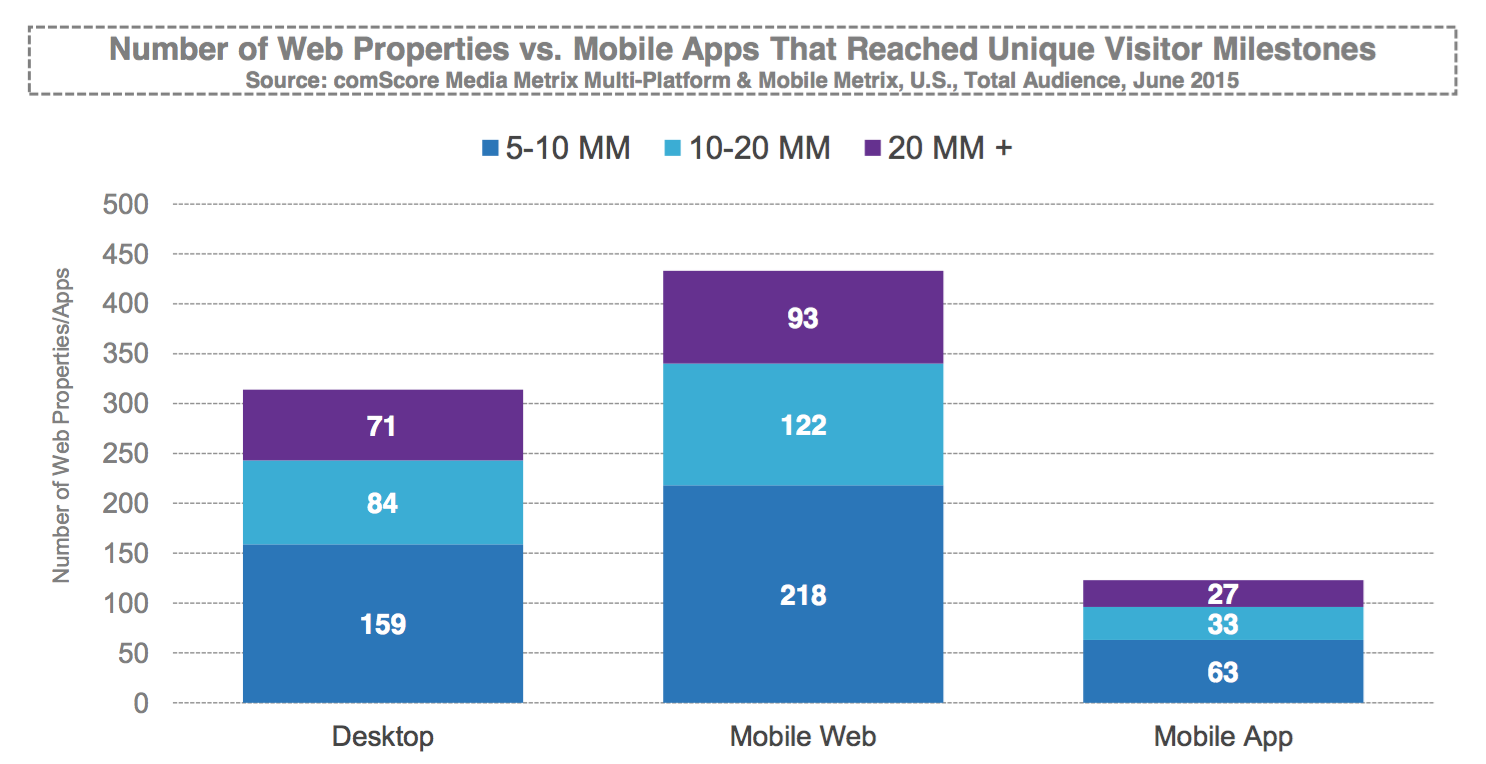
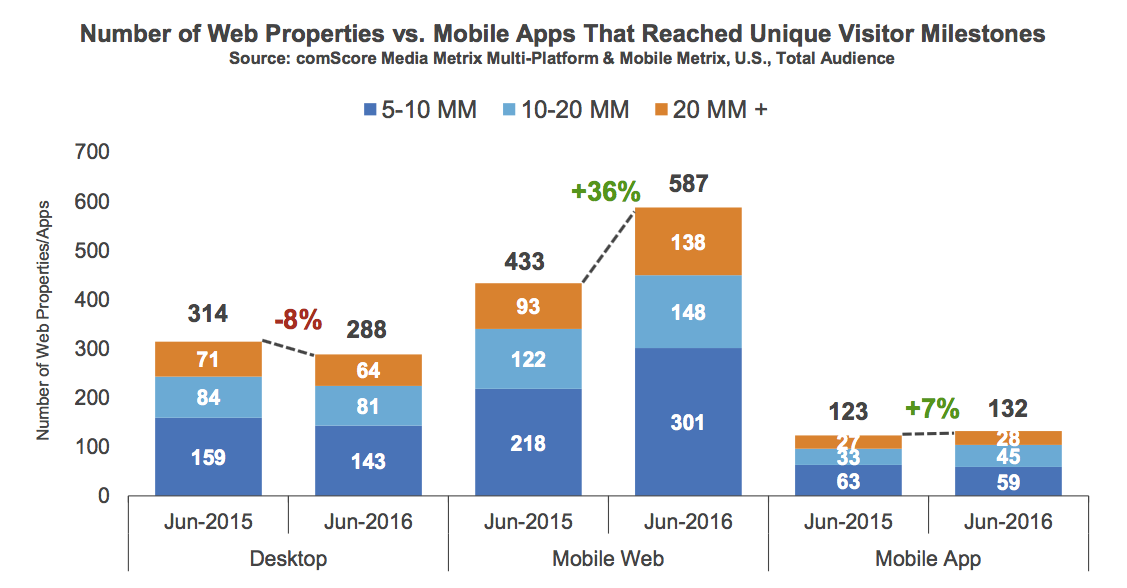
Updating charts of The Right Choice presentation

diff --git a/web-platform-when-why/index.html b/web-platform-when-why/index.html
@@ -73,7 +73,7 @@
             <h3>Interoperable</h3>
             <img alt="Grow in digital media time" src="./imgs/grow-in-digital-media-time.png"/>
             <p>
-              Source: <a href="http://www.comscore.com/layout/set/popup/Request/Presentations/2015/The-2015-US-Mobile-App-Report" target="_blank">2015 U.S. Mobile App Report</a>
+              Source: <a href="https://www.comscore.com/Insights/Presentations-and-Whitepapers/2016/The-2016-US-Mobile-App-Report" target="_blank">2016 U.S. Mobile App Report</a>
             </p>
           </section>
 
@@ -81,6 +81,13 @@
             <blockquote>
               <p>Confluence of factors is driving the huge uptick in app usage time, and apps are overtaking other media in importance. However, it’s also important to recognize the others haven’t gone away and the opportunity lies in multi-platform engagement.</p>
               <p style="text-align: right;"><a href="http://www.comscore.com/layout/set/popup/Request/Presentations/2015/The-2015-US-Mobile-App-Report" target="_blank">&mdash;2015 U.S. Mobile Report Opportunities Key Points</a></p>
+            </blockquote>
+          </section>
+
+          <section>
+            <blockquote>
+              <p>Mobile web is the primary vehicle for expanding audience reach, but apps are where heavy engagement happens. Publishers must get better at onboarding mobile web visitors to the app, and get their apps promoted to the home screen if they want to maximize usage.</p>
+              <p style="text-align: right;"><a href="https://www.comscore.com/Insights/Presentations-and-Whitepapers/2016/The-2016-US-Mobile-App-Report" target="_blank">&mdash;2016 U.S. Mobile Report Opportunities Key Points</a></p>
             </blockquote>
           </section>
 
@@ -103,7 +110,14 @@
             <h3>Discoverable</h3>
             <img alt="Unique visitors milestones" src="./imgs/unique-visitors-milestones.png"/>
             <p>
-              Source: <a href="http://www.comscore.com/layout/set/popup/Request/Presentations/2015/The-2015-US-Mobile-App-Report" target="_blank">2015 U.S. Mobile App Report</a>
+              Source: <a href="https://www.comscore.com/Insights/Presentations-and-Whitepapers/2016/The-2016-US-Mobile-App-Report" target="_blank">2016 U.S. Mobile App Report</a>
+            </p>
+          </section>
+
+          <section>
+            <img alt="Increment of the user of discovery channels" src="./imgs/discovery-channels.png"/>
+            <p>
+              Source: <a href="https://www.comscore.com/Insights/Presentations-and-Whitepapers/2016/The-2016-US-Mobile-App-Report" target="_blank">2016 U.S. Mobile App Report</a>
             </p>
           </section>
         </section>
@@ -123,22 +137,22 @@
 
           <section>
             <p>Apps run independent on connectivity</p>
-            <img alt="Application with no connectivity" src="./imgs/youtube-offline.png" style="width: 40%;"/>
-            <img alt="Dinosaur game in Chrome" src="./imgs/dinosaur-game-chrome.png" style="width: 40%;"/>
+            <img alt="Application with no connectivity" src="./imgs/youtube-offline.png" style="width: 34%;"/>
+            <img alt="Dinosaur game in Chrome" src="./imgs/dinosaur-game-chrome.png" style="width: 34%;"/>
             <p>App vs. tab</p>
           </section>
 
           <section>
             <p>Apps are first class citizens of the OS</p>
-            <img style="width: 40%;" alt="App task switcher" src="./imgs/app-task-switcher.png" />
-            <img style="width: 40%;" alt="Browser tab switcher" src="./imgs/browser-tab-switcher.png"/>
+            <img style="width: 34%;" alt="App task switcher" src="./imgs/app-task-switcher.png" />
+            <img style="width: 34%;" alt="Browser tab switcher" src="./imgs/browser-tab-switcher.png"/>
             <p>App vs. tab</p>
           </section>
 
           <section>
             <p>Apps can re-engage the user even if they are closed</p>
-            <img style="width: 40%;" alt="New e-mail notification" src="./imgs/push-notification.png" />
-            <img style="width: 40%;" alt="Highlghting new content in app" src="./imgs/in-app-highlight.png"/>
+            <img style="width: 34%;" alt="New e-mail notification" src="./imgs/push-notification.png" />
+            <img style="width: 34%;" alt="Highlghting new content in app" src="./imgs/in-app-highlight.png"/>
             <p>App vs. tab</p>
           </section>
 
@@ -153,16 +167,16 @@
             <p>
               And now?
             </p>
-            <img style="width: 40%;" alt="Twitter Native Application" src="./imgs/twitter-native.png"/>
-            <img style="width: 40%;" alt="Twitter Web Application Without Browser UI" src="./imgs/twitter-web-no-ui.png"/>
+            <img style="width: 34%;" alt="Twitter Native Application" src="./imgs/twitter-native.png"/>
+            <img style="width: 34%;" alt="Twitter Web Application Without Browser UI" src="./imgs/twitter-web-no-ui.png"/>
           </section>
 
           <section>
             <p>
               But you certainly do now.
             </p>
-            <img style="width: 40%;" alt="Twitter Native Application" src="./imgs/twitter-native.png"/>
-            <img style="width: 40%;" alt="Twitter Web Application" src="./imgs/twitter-web.png"/>
+            <img style="width: 34%;" alt="Twitter Native Application" src="./imgs/twitter-native.png"/>
+            <img style="width: 34%;" alt="Twitter Web Application" src="./imgs/twitter-web.png"/>
           </section>
 
           <section>
@@ -184,14 +198,14 @@
             <p>Different benefits for different platforms</p>
             <img alt="Audience vs loyalty" src="./imgs/audience-vs-loyalty.png"/>
             <p>
-              Source: <a href="http://www.comscore.com/layout/set/popup/Request/Presentations/2015/The-2015-US-Mobile-App-Report" target="_blank">2015 U.S. Mobile App Report</a>
+              Source: <a href="https://www.comscore.com/Insights/Presentations-and-Whitepapers/2016/The-2016-US-Mobile-App-Report" target="_blank">2016 U.S. Mobile App Report</a>
             </p>
           </section>
 
           <section>
             <blockquote>
               <p>What you hope is that the experience with your entire company is so good, and the service or value you provide is so impressive, and the benefits to your app are so clear … that casual browsers turn into mobile app users.</p>
-              <p><a href="http://venturebeat.com/2015/09/25/wait-what-mobile-browser-traffic-is-2x-bigger-than-app-traffic-and-growing-faster/" target="_blank">&mdash;Wait, what? Mobile browser traffic is 2X bigger&hellip; at venturebeat.com</a></p>
+              <p><a href="http://venturebeat.com/2015/09/25/wait-what-mobile-browser-traffic-is-2x-bigger-than-app-traffic-and-growing-faster/" target="_blank">&mdash;Wait, what? Mobile browser traffic is 2X bigger&hellip; at venturebeat.com (2015)</a></p>
             </blockquote>
           </section>
 
@@ -268,8 +282,8 @@
           </section>
 
           <section>
-            <img alt="Flipkart in Offline mode" src="./imgs/flipkart-offline.png" style="width: 40%;"/>
-            <img alt="Flipkart showing custom no content warning" src="./imgs/flipkart-no-content.png" style="width: 40%;"/>
+            <img alt="Flipkart in Offline mode" src="./imgs/flipkart-offline.png" style="width: 34%;"/>
+            <img alt="Flipkart showing custom no content warning" src="./imgs/flipkart-no-content.png" style="width: 34%;"/>
           </section>
 
           <section>
@@ -292,54 +306,28 @@
           </section>
 
           <section>
+            <p>
+              Three words of caution:
+              <a href="../state-of-the-web-17/#timely-relevant-precise">
+                Timely, Relevant, Precise</a>.
+            </p>
+            <img alt="Denyal of receiving push in increasing" src="./imgs/denying-push-notifications.png"/>
+            <p>
+              Source: <a href="https://www.comscore.com/Insights/Presentations-and-Whitepapers/2016/The-2016-US-Mobile-App-Report" target="_blank">2016 U.S. Mobile App Report</a>
+            </p>
+          </section>
+
+          <section>
             <h3>Sync</h3>
             <img alt="Sync event" src="../imgs/sw-101/sync-event.png" style="width: 70%"/>
           </section>
 
           <section>
-            <h3>Performance</h3>
-          </section>
-
-          <section>
-            <img alt="Causes making milennia to give up an application" src="./imgs/give-up-causes-milennia.png"/>
-            <p>
-              Source: <a href="https://go.oracle.com/LP=11235?elqCampaignID=20552" target="_blank">Milennials and mobility, Oracle</a>
-            </p>
-          </section>
-
-          <section>
+            <p>And there is more to come...</p>
             <ul>
-              <li>
-                <a href="https://developers.google.com/web/tools/chrome-devtools/profile/evaluate-performance/rail?hl=en" target="_blank">RAIL</a> performance model
-              </li>
-              <li class="fragment">
-                <a href="https://aerotwist.com/blog/flip-your-animations/" target="_blank">FLIP</a> your animation in <a href="https://aerotwist.com" target="_blank">aerotwist.com</a>
-              </li>
-              <li class="fragment">
-                <a href="https://hacks.mozilla.org/2015/06/new-performance-tools-in-firefox-developer-edition-40/">Performance tools</a> in <a href="https://www.mozilla.org/firefox/developer/" target="_blank">Firefox Dev. edition</a>
-              </li>
-              <li class="fragment">
-                <a href="https://github.com/Matt-Esch/virtual-dom" target="_blank">Virtual DOM techniques</a>
-              </li>
+              <li class="fragment">Web Payments</li>
+              <li class="fragment">Credential Management</li>
             </ul>
-          </section>
-
-          <section>
-            <p>
-              Still worried about performance?
-            </p>
-          </section>
-
-          <section>
-            <p>
-              There's more coming&hellip;
-              <ul>
-                <li class="fragment"><a href="https://medium.com/@vvergon/webgl-matures-into-a-commercial-ready-technology-ba71e254cae6" target="_blank">WebGL is ready</a> for production</li>
-                <li class="fragment">WebAssembly first <a href="https://webassembly.github.io/demo/" target="_blank">demo</a></li>
-                <li class="fragment"><a href="https://blog.servo.org/2016/06/30/servo-nightlies/" target="_blank">Mozilla Servo Nightly builds</a></li>
-                <li class="fragment"><a href="https://github.com/servo/webrender/wiki" target="_blank">WebRender</a>: <a href="https://www.youtube.com/watch?v=u0hYIRQRiws" target="_blank">superfast render engine</a> by Mozilla</li>
-              </ul>
-            </p>
           </section>
         </section>
 

diff --git a/state-of-the-web-17/index.html b/state-of-the-web-17/index.html
@@ -61,6 +61,7 @@
           [Transpilation](#transpilation), [Virtual DOM](#vdom),
           [Let's encrypt](#lets-encrypt), [Storage Sync](#storage-sync),
           [Progressive Enhancement](#progressive-enhancement),
+          [Timely, Relevant, Precise](#timely-relevant-precise)
         </section>
         <!-- TODO: Typed? Functional? -->
         <!-- TODO: PUSH: Timely, Relevant, Precise -->
